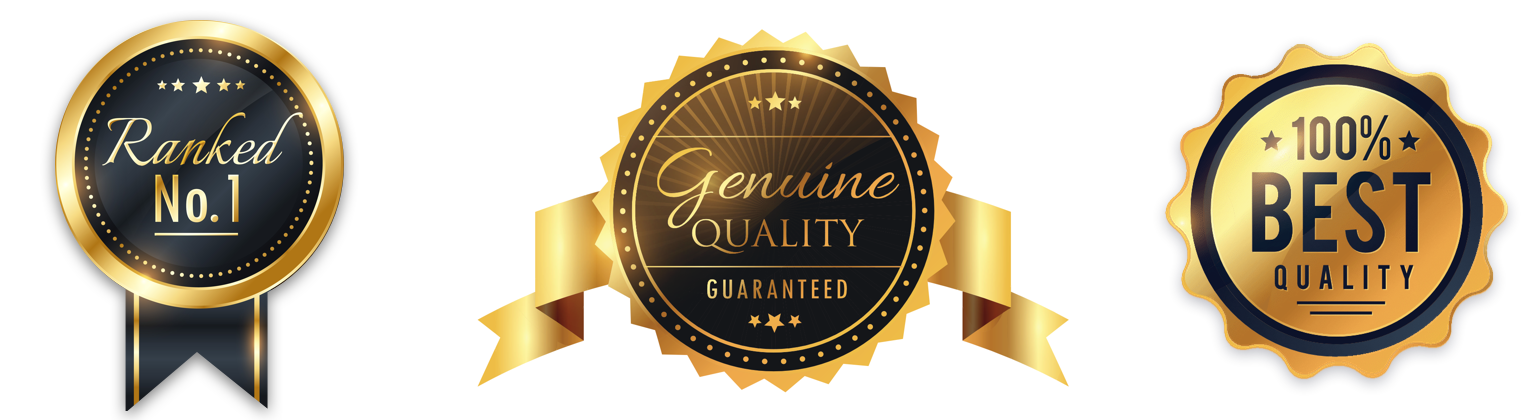
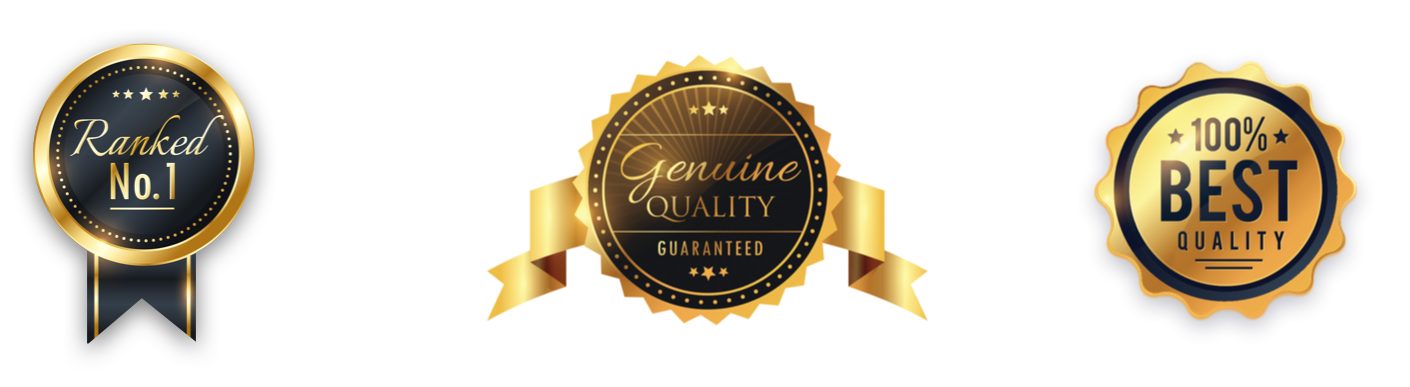
update

diff --git a/zh-cn/advantage/index.html b/zh-cn/advantage/index.html
@@ -144,7 +144,7 @@
 <p>您可以信赖我们的案件质量。 这是因为鸿道智权自2008年起已通过ISO 9001认证，并每年进行审核。 该质量管理系统是经过验证的，尤其适用于客户导向、领导管理责任和持续改进。 此外，它还提高了我们内部流程的透明度和客户满意度。</p>
 
 <div class="advantage-image">
-<img src="/images/advantage.png?raw=true" alt="" style="width: 700px; max-width:100%;" />
+<img src="/images/advantage.png?raw=true" alt="" style="width: 900px; max-width:100%;" />
 </div>
 </div>
       </div>

diff --git a/zh-tw/advantage/index.html b/zh-tw/advantage/index.html
@@ -144,7 +144,7 @@
 <p>您可以信賴我們的案件品質。 這是因為鴻道智權自2008年起已通過ISO 9001認證，並每年進行審核。 該品質管理系統是經過驗證的，尤其適用於客戶導向、領導管理責任和持續改進。 此外，它還提高了我們內部流程的透明度和客戶滿意度。</p>
 
 <div class="advantage-image">
-<img src="/images/advantage.png?raw=true" alt="" style="width: 700px; max-width:100%;" />
+<img src="/images/advantage.png?raw=true" alt="" style="width: 900px; max-width:100%;" />
 </div>
 </div>
       </div>

diff --git a/en/advantage/index.html b/en/advantage/index.html
@@ -145,7 +145,7 @@
 This especially applies with regard to customer orientation, leadership responsibility, and continuous improvement.  In addition, it improves both the transparency of our internal processes and the satisfaction of our clients.</p>
 
 <div class="advantage-image">
-<img src="/images/advantage.png?raw=true" alt="" style="width: 700px; max-width:100%;" />
+<img src="/images/advantage.png?raw=true" alt="" style="width: 900px; max-width:100%;" />
 </div>
 </div>
       </div>
